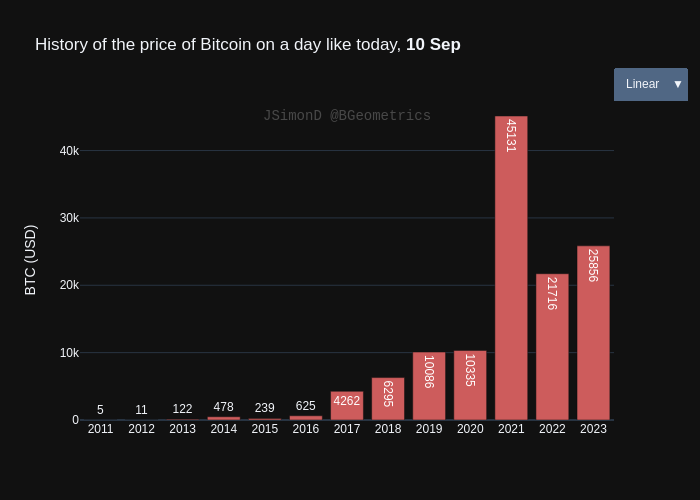
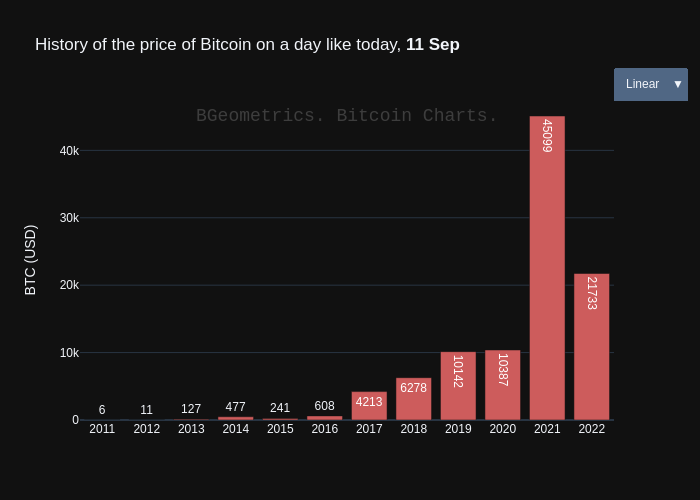
daily

Changed region(s): [[0.12, 0.21, 0.87, 0.87], [0.6, 0.06, 0.66, 0.12]]

diff --git a/reports/bitcoin_price_usd_day_g.html b/reports/bitcoin_price_usd_day_g.html
@@ -1,2 +1,2 @@
 <div>                        <script type="text/javascript">window.PlotlyConfig = {MathJaxConfig: 'local'};</script>
-        <script charset="utf-8" src="https://cdn.plot.ly/plotly-2.24.1.min.js"></script>                <div id="330261bc-e976-4177-add5-2cee92ebdb9d" class="plotly-graph-div" style="height:100%; width:100%;"></div>            <script type="text/javascript">                                    window.PLOTLYENV=window.PLOTLYENV || {};                                    if (document.getElementById("330261bc-e976-4177-add5-2cee92ebdb9d")) {                    Plotly.newPlot(                        "330261bc-e976-4177-add5-2cee92ebdb9d",                        [{"marker":{"color":"indianred"},"name":"BTC day","text":[5.0,11.0,122.0,478.0,239.0,625.0,4262.0,6295.0,10086.0,10335.0,45131.0,21716.0,25856.0],"x":["2011","2012","2013","2014","2015","2016","2017","2018","2019","2020","2021","2022","2023"],"y":[4.7428466552,11.1252888048,122.2155301894,477.7784175921,238.7504772063,624.7526404442,4261.8435210403,6295.3886025716,10085.9519243133,10334.6307302162,45130.85,21715.5972516072,25856.26],"type":"bar"}],                        {"template":{"data":{"barpolar":[{"marker":{"line":{"color":"rgb(17,17,17)","width":0.5},"pattern":{"fillmode":"overlay","size":10,"solidity":0.2}},"type":"barpolar"}],"bar":[{"error_x":{"color":"#f2f5fa"},"error_y":{"color":"#f2f5fa"},"marker":{"line":{"color":"rgb(17,17,17)","width":0.5},"pattern":{"fillmode":"overlay","size":10,"solidity":0.2}},"type":"bar"}],"carpet":[{"aaxis":{"endlinecolor":"#A2B1C6","gridcolor":"#506784","linecolor":"#506784","minorgridcolor":"#506784","startlinecolor":"#A2B1C6"},"baxis":{"endlinecolor":"#A2B1C6","gridcolor":"#506784","linecolor":"#506784","minorgridcolor":"#506784","startlinecolor":"#A2B1C6"},"type":"carpet"}],"choropleth":[{"colorbar":{"outlinewidth":0,"ticks":""},"type":"choropleth"}],"contourcarpet":[{"colorbar":{"outlinewidth":0,"ticks":""},"type":"contourcarpet"}],"contour":[{"colorbar":{"outlinewidth":0,"ticks":""},"colorscale":[[0.0,"#0d0887"],[0.1111111111111111,"#46039f"],[0.2222222222222222,"#7201a8"],[0.3333333333333333,"#9c179e"],[0.4444444444444444,"#bd3786"],[0.5555555555555556,"#d8576b"],[0.6666666666666666,"#ed7953"],[0.7777777777777778,"#fb9f3a"],[0.8888888888888888,"#fdca26"],[1.0,"#f0f921"]],"type":"contour"}],"heatmapgl":[{"colorbar":{"outlinewidth":0,"ticks":""},"colorscale":[[0.0,"#0d0887"],[0.1111111111111111,"#46039f"],[0.2222222222222222,"#7201a8"],[0.3333333333333333,"#9c179e"],[0.4444444444444444,"#bd3786"],[0.5555555555555556,"#d8576b"],[0.6666666666666666,"#ed7953"],[0.7777777777777778,"#fb9f3a"],[0.8888888888888888,"#fdca26"],[1.0,"#f0f921"]],"type":"heatmapgl"}],"heatmap":[{"colorbar":{"outlinewidth":0,"ticks":""},"colorscale":[[0.0,"#0d0887"],[0.1111111111111111,"#46039f"],[0.2222222222222222,"#7201a8"],[0.3333333333333333,"#9c179e"],[0.4444444444444444,"#bd3786"],[0.5555555555555556,"#d8576b"],[0.6666666666666666,"#ed7953"],[0.7777777777777778,"#fb9f3a"],[0.8888888888888888,"#fdca26"],[1.0,"#f0f921"]],"type":"heatmap"}],"histogram2dcontour":[{"colorbar":{"outlinewidth":0,"ticks":""},"colorscale":[[0.0,"#0d0887"],[0.1111111111111111,"#46039f"],[0.2222222222222222,"#7201a8"],[0.3333333333333333,"#9c179e"],[0.4444444444444444,"#bd3786"],[0.5555555555555556,"#d8576b"],[0.6666666666666666,"#ed7953"],[0.7777777777777778,"#fb9f3a"],[0.8888888888888888,"#fdca26"],[1.0,"#f0f921"]],"type":"histogram2dcontour"}],"histogram2d":[{"colorbar":{"outlinewidth":0,"ticks":""},"colorscale":[[0.0,"#0d0887"],[0.1111111111111111,"#46039f"],[0.2222222222222222,"#7201a8"],[0.3333333333333333,"#9c179e"],[0.4444444444444444,"#bd3786"],[0.5555555555555556,"#d8576b"],[0.6666666666666666,"#ed7953"],[0.7777777777777778,"#fb9f3a"],[0.8888888888888888,"#fdca26"],[1.0,"#f0f921"]],"type":"histogram2d"}],"histogram":[{"marker":{"pattern":{"fillmode":"overlay","size":10,"solidity":0.2}},"type":"histogram"}],"mesh3d":[{"colorbar":{"outlinewidth":0,"ticks":""},"type":"mesh3d"}],"parcoords":[{"line":{"colorbar":{"outlinewidth":0,"ticks":""}},"type":"parcoords"}],"pie":[{"automargin":true,"type":"pie"}],"scatter3d":[{"line":{"colorbar":{"outlinewidth":0,"ticks":""}},"marker":{"colorbar":{"outlinewidth":0,"ticks":""}},"type":"scatter3d"}],"scattercarpet":[{"marker":{"colorbar":{"outlinewidth":0,"ticks":""}},"type":"scattercarpet"}],"scattergeo":[{"marker":{"colorbar":{"outlinewidth":0,"ticks":""}},"type":"scattergeo"}],"scattergl":[{"marker":{"line":{"color":"#283442"}},"type":"scattergl"}],"scattermapbox":[{"marker":{"colorbar":{"outlinewidth":0,"ticks":""}},"type":"scattermapbox"}],"scatterpolargl":[{"marker":{"colorbar":{"outlinewidth":0,"ticks":""}},"type":"scatterpolargl"}],"scatterpolar":[{"marker":{"colorbar":{"outlinewidth":0,"ticks":""}},"type":"scatterpolar"}],"scatter":[{"marker":{"line":{"color":"#283442"}},"type":"scatter"}],"scatterternary":[{"marker":{"colorbar":{"outlinewidth":0,"ticks":""}},"type":"scatterternary"}],"surface":[{"colorbar":{"outlinewidth":0,"ticks":""},"colorscale":[[0.0,"#0d0887"],[0.1111111111111111,"#46039f"],[0.2222222222222222,"#7201a8"],[0.3333333333333333,"#9c179e"],[0.4444444444444444,"#bd3786"],[0.5555555555555556,"#d8576b"],[0.6666666666666666,"#ed7953"],[0.7777777777777778,"#fb9f3a"],[0.8888888888888888,"#fdca26"],[1.0,"#f0f921"]],"type":"surface"}],"table":[{"cells":{"fill":{"color":"#506784"},"line":{"color":"rgb(17,17,17)"}},"header":{"fill":{"color":"#2a3f5f"},"line":{"color":"rgb(17,17,17)"}},"type":"table"}]},"layout":{"annotationdefaults":{"arrowcolor":"#f2f5fa","arrowhead":0,"arrowwidth":1},"autotypenumbers":"strict","coloraxis":{"colorbar":{"outlinewidth":0,"ticks":""}},"colorscale":{"diverging":[[0,"#8e0152"],[0.1,"#c51b7d"],[0.2,"#de77ae"],[0.3,"#f1b6da"],[0.4,"#fde0ef"],[0.5,"#f7f7f7"],[0.6,"#e6f5d0"],[0.7,"#b8e186"],[0.8,"#7fbc41"],[0.9,"#4d9221"],[1,"#276419"]],"sequential":[[0.0,"#0d0887"],[0.1111111111111111,"#46039f"],[0.2222222222222222,"#7201a8"],[0.3333333333333333,"#9c179e"],[0.4444444444444444,"#bd3786"],[0.5555555555555556,"#d8576b"],[0.6666666666666666,"#ed7953"],[0.7777777777777778,"#fb9f3a"],[0.8888888888888888,"#fdca26"],[1.0,"#f0f921"]],"sequentialminus":[[0.0,"#0d0887"],[0.1111111111111111,"#46039f"],[0.2222222222222222,"#7201a8"],[0.3333333333333333,"#9c179e"],[0.4444444444444444,"#bd3786"],[0.5555555555555556,"#d8576b"],[0.6666666666666666,"#ed7953"],[0.7777777777777778,"#fb9f3a"],[0.8888888888888888,"#fdca26"],[1.0,"#f0f921"]]},"colorway":["#636efa","#EF553B","#00cc96","#ab63fa","#FFA15A","#19d3f3","#FF6692","#B6E880","#FF97FF","#FECB52"],"font":{"color":"#f2f5fa"},"geo":{"bgcolor":"rgb(17,17,17)","lakecolor":"rgb(17,17,17)","landcolor":"rgb(17,17,17)","showlakes":true,"showland":true,"subunitcolor":"#506784"},"hoverlabel":{"align":"left"},"hovermode":"closest","mapbox":{"style":"dark"},"paper_bgcolor":"rgb(17,17,17)","plot_bgcolor":"rgb(17,17,17)","polar":{"angularaxis":{"gridcolor":"#506784","linecolor":"#506784","ticks":""},"bgcolor":"rgb(17,17,17)","radialaxis":{"gridcolor":"#506784","linecolor":"#506784","ticks":""}},"scene":{"xaxis":{"backgroundcolor":"rgb(17,17,17)","gridcolor":"#506784","gridwidth":2,"linecolor":"#506784","showbackground":true,"ticks":"","zerolinecolor":"#C8D4E3"},"yaxis":{"backgroundcolor":"rgb(17,17,17)","gridcolor":"#506784","gridwidth":2,"linecolor":"#506784","showbackground":true,"ticks":"","zerolinecolor":"#C8D4E3"},"zaxis":{"backgroundcolor":"rgb(17,17,17)","gridcolor":"#506784","gridwidth":2,"linecolor":"#506784","showbackground":true,"ticks":"","zerolinecolor":"#C8D4E3"}},"shapedefaults":{"line":{"color":"#f2f5fa"}},"sliderdefaults":{"bgcolor":"#C8D4E3","bordercolor":"rgb(17,17,17)","borderwidth":1,"tickwidth":0},"ternary":{"aaxis":{"gridcolor":"#506784","linecolor":"#506784","ticks":""},"baxis":{"gridcolor":"#506784","linecolor":"#506784","ticks":""},"bgcolor":"rgb(17,17,17)","caxis":{"gridcolor":"#506784","linecolor":"#506784","ticks":""}},"title":{"x":0.05},"updatemenudefaults":{"bgcolor":"#506784","borderwidth":0},"xaxis":{"automargin":true,"gridcolor":"#283442","linecolor":"#506784","ticks":"","title":{"standoff":15},"zerolinecolor":"#283442","zerolinewidth":2},"yaxis":{"automargin":true,"gridcolor":"#283442","linecolor":"#506784","ticks":"","title":{"standoff":15},"zerolinecolor":"#283442","zerolinewidth":2}}},"annotations":[{"font":{"color":"grey","family":"Courier New, monospace","size":14},"opacity":0.5,"showarrow":false,"text":"\u003ca href='https:\u002f\u002fbgeometrics.com'\u003eJSimonD @BGeometrics\u003c\u002fa\u003e","x":0.5,"xanchor":"center","xref":"paper","y":0.95,"yanchor":"middle","yref":"paper"}],"title":{"text":"History of the price of Bitcoin on a day like today, \u003cb\u003e10 Sep\u003c\u002fb\u003e"},"yaxis":{"title":{"text":"BTC (USD)"}},"showlegend":false,"updatemenus":[{"buttons":[{"args":[{"yaxis.type":"linear"}],"label":"Linear","method":"relayout"},{"args":[{"yaxis.type":"log"}],"label":"Log","method":"relayout"}],"x":1,"xanchor":"left","y":1.1,"yanchor":"top"}]},                        {"responsive": true}                    )                };                            </script>        </div>
+        <script charset="utf-8" src="https://cdn.plot.ly/plotly-2.24.1.min.js"></script>                <div id="e0ff1373-d44e-4629-b83f-1cf379615ed9" class="plotly-graph-div" style="height:100%; width:100%;"></div>            <script type="text/javascript">                                    window.PLOTLYENV=window.PLOTLYENV || {};                                    if (document.getElementById("e0ff1373-d44e-4629-b83f-1cf379615ed9")) {                    Plotly.newPlot(                        "e0ff1373-d44e-4629-b83f-1cf379615ed9",                        [{"marker":{"color":"indianred"},"name":"BTC day","text":[6.0,11.0,127.0,477.0,241.0,608.0,4213.0,6278.0,10142.0,10387.0,45099.0,21733.0],"x":["2011","2012","2013","2014","2015","2016","2017","2018","2019","2020","2021","2022"],"y":[5.8529039725,11.2680929553,127.0882270602,477.2706820573,240.8450081169,608.2466759205,4212.5475733489,6278.4246396844,10142.1480603741,10387.0207419638,45098.5916447691,21732.8643576856],"type":"bar"}],                        {"template":{"data":{"barpolar":[{"marker":{"line":{"color":"rgb(17,17,17)","width":0.5},"pattern":{"fillmode":"overlay","size":10,"solidity":0.2}},"type":"barpolar"}],"bar":[{"error_x":{"color":"#f2f5fa"},"error_y":{"color":"#f2f5fa"},"marker":{"line":{"color":"rgb(17,17,17)","width":0.5},"pattern":{"fillmode":"overlay","size":10,"solidity":0.2}},"type":"bar"}],"carpet":[{"aaxis":{"endlinecolor":"#A2B1C6","gridcolor":"#506784","linecolor":"#506784","minorgridcolor":"#506784","startlinecolor":"#A2B1C6"},"baxis":{"endlinecolor":"#A2B1C6","gridcolor":"#506784","linecolor":"#506784","minorgridcolor":"#506784","startlinecolor":"#A2B1C6"},"type":"carpet"}],"choropleth":[{"colorbar":{"outlinewidth":0,"ticks":""},"type":"choropleth"}],"contourcarpet":[{"colorbar":{"outlinewidth":0,"ticks":""},"type":"contourcarpet"}],"contour":[{"colorbar":{"outlinewidth":0,"ticks":""},"colorscale":[[0.0,"#0d0887"],[0.1111111111111111,"#46039f"],[0.2222222222222222,"#7201a8"],[0.3333333333333333,"#9c179e"],[0.4444444444444444,"#bd3786"],[0.5555555555555556,"#d8576b"],[0.6666666666666666,"#ed7953"],[0.7777777777777778,"#fb9f3a"],[0.8888888888888888,"#fdca26"],[1.0,"#f0f921"]],"type":"contour"}],"heatmapgl":[{"colorbar":{"outlinewidth":0,"ticks":""},"colorscale":[[0.0,"#0d0887"],[0.1111111111111111,"#46039f"],[0.2222222222222222,"#7201a8"],[0.3333333333333333,"#9c179e"],[0.4444444444444444,"#bd3786"],[0.5555555555555556,"#d8576b"],[0.6666666666666666,"#ed7953"],[0.7777777777777778,"#fb9f3a"],[0.8888888888888888,"#fdca26"],[1.0,"#f0f921"]],"type":"heatmapgl"}],"heatmap":[{"colorbar":{"outlinewidth":0,"ticks":""},"colorscale":[[0.0,"#0d0887"],[0.1111111111111111,"#46039f"],[0.2222222222222222,"#7201a8"],[0.3333333333333333,"#9c179e"],[0.4444444444444444,"#bd3786"],[0.5555555555555556,"#d8576b"],[0.6666666666666666,"#ed7953"],[0.7777777777777778,"#fb9f3a"],[0.8888888888888888,"#fdca26"],[1.0,"#f0f921"]],"type":"heatmap"}],"histogram2dcontour":[{"colorbar":{"outlinewidth":0,"ticks":""},"colorscale":[[0.0,"#0d0887"],[0.1111111111111111,"#46039f"],[0.2222222222222222,"#7201a8"],[0.3333333333333333,"#9c179e"],[0.4444444444444444,"#bd3786"],[0.5555555555555556,"#d8576b"],[0.6666666666666666,"#ed7953"],[0.7777777777777778,"#fb9f3a"],[0.8888888888888888,"#fdca26"],[1.0,"#f0f921"]],"type":"histogram2dcontour"}],"histogram2d":[{"colorbar":{"outlinewidth":0,"ticks":""},"colorscale":[[0.0,"#0d0887"],[0.1111111111111111,"#46039f"],[0.2222222222222222,"#7201a8"],[0.3333333333333333,"#9c179e"],[0.4444444444444444,"#bd3786"],[0.5555555555555556,"#d8576b"],[0.6666666666666666,"#ed7953"],[0.7777777777777778,"#fb9f3a"],[0.8888888888888888,"#fdca26"],[1.0,"#f0f921"]],"type":"histogram2d"}],"histogram":[{"marker":{"pattern":{"fillmode":"overlay","size":10,"solidity":0.2}},"type":"histogram"}],"mesh3d":[{"colorbar":{"outlinewidth":0,"ticks":""},"type":"mesh3d"}],"parcoords":[{"line":{"colorbar":{"outlinewidth":0,"ticks":""}},"type":"parcoords"}],"pie":[{"automargin":true,"type":"pie"}],"scatter3d":[{"line":{"colorbar":{"outlinewidth":0,"ticks":""}},"marker":{"colorbar":{"outlinewidth":0,"ticks":""}},"type":"scatter3d"}],"scattercarpet":[{"marker":{"colorbar":{"outlinewidth":0,"ticks":""}},"type":"scattercarpet"}],"scattergeo":[{"marker":{"colorbar":{"outlinewidth":0,"ticks":""}},"type":"scattergeo"}],"scattergl":[{"marker":{"line":{"color":"#283442"}},"type":"scattergl"}],"scattermapbox":[{"marker":{"colorbar":{"outlinewidth":0,"ticks":""}},"type":"scattermapbox"}],"scatterpolargl":[{"marker":{"colorbar":{"outlinewidth":0,"ticks":""}},"type":"scatterpolargl"}],"scatterpolar":[{"marker":{"colorbar":{"outlinewidth":0,"ticks":""}},"type":"scatterpolar"}],"scatter":[{"marker":{"line":{"color":"#283442"}},"type":"scatter"}],"scatterternary":[{"marker":{"colorbar":{"outlinewidth":0,"ticks":""}},"type":"scatterternary"}],"surface":[{"colorbar":{"outlinewidth":0,"ticks":""},"colorscale":[[0.0,"#0d0887"],[0.1111111111111111,"#46039f"],[0.2222222222222222,"#7201a8"],[0.3333333333333333,"#9c179e"],[0.4444444444444444,"#bd3786"],[0.5555555555555556,"#d8576b"],[0.6666666666666666,"#ed7953"],[0.7777777777777778,"#fb9f3a"],[0.8888888888888888,"#fdca26"],[1.0,"#f0f921"]],"type":"surface"}],"table":[{"cells":{"fill":{"color":"#506784"},"line":{"color":"rgb(17,17,17)"}},"header":{"fill":{"color":"#2a3f5f"},"line":{"color":"rgb(17,17,17)"}},"type":"table"}]},"layout":{"annotationdefaults":{"arrowcolor":"#f2f5fa","arrowhead":0,"arrowwidth":1},"autotypenumbers":"strict","coloraxis":{"colorbar":{"outlinewidth":0,"ticks":""}},"colorscale":{"diverging":[[0,"#8e0152"],[0.1,"#c51b7d"],[0.2,"#de77ae"],[0.3,"#f1b6da"],[0.4,"#fde0ef"],[0.5,"#f7f7f7"],[0.6,"#e6f5d0"],[0.7,"#b8e186"],[0.8,"#7fbc41"],[0.9,"#4d9221"],[1,"#276419"]],"sequential":[[0.0,"#0d0887"],[0.1111111111111111,"#46039f"],[0.2222222222222222,"#7201a8"],[0.3333333333333333,"#9c179e"],[0.4444444444444444,"#bd3786"],[0.5555555555555556,"#d8576b"],[0.6666666666666666,"#ed7953"],[0.7777777777777778,"#fb9f3a"],[0.8888888888888888,"#fdca26"],[1.0,"#f0f921"]],"sequentialminus":[[0.0,"#0d0887"],[0.1111111111111111,"#46039f"],[0.2222222222222222,"#7201a8"],[0.3333333333333333,"#9c179e"],[0.4444444444444444,"#bd3786"],[0.5555555555555556,"#d8576b"],[0.6666666666666666,"#ed7953"],[0.7777777777777778,"#fb9f3a"],[0.8888888888888888,"#fdca26"],[1.0,"#f0f921"]]},"colorway":["#636efa","#EF553B","#00cc96","#ab63fa","#FFA15A","#19d3f3","#FF6692","#B6E880","#FF97FF","#FECB52"],"font":{"color":"#f2f5fa"},"geo":{"bgcolor":"rgb(17,17,17)","lakecolor":"rgb(17,17,17)","landcolor":"rgb(17,17,17)","showlakes":true,"showland":true,"subunitcolor":"#506784"},"hoverlabel":{"align":"left"},"hovermode":"closest","mapbox":{"style":"dark"},"paper_bgcolor":"rgb(17,17,17)","plot_bgcolor":"rgb(17,17,17)","polar":{"angularaxis":{"gridcolor":"#506784","linecolor":"#506784","ticks":""},"bgcolor":"rgb(17,17,17)","radialaxis":{"gridcolor":"#506784","linecolor":"#506784","ticks":""}},"scene":{"xaxis":{"backgroundcolor":"rgb(17,17,17)","gridcolor":"#506784","gridwidth":2,"linecolor":"#506784","showbackground":true,"ticks":"","zerolinecolor":"#C8D4E3"},"yaxis":{"backgroundcolor":"rgb(17,17,17)","gridcolor":"#506784","gridwidth":2,"linecolor":"#506784","showbackground":true,"ticks":"","zerolinecolor":"#C8D4E3"},"zaxis":{"backgroundcolor":"rgb(17,17,17)","gridcolor":"#506784","gridwidth":2,"linecolor":"#506784","showbackground":true,"ticks":"","zerolinecolor":"#C8D4E3"}},"shapedefaults":{"line":{"color":"#f2f5fa"}},"sliderdefaults":{"bgcolor":"#C8D4E3","bordercolor":"rgb(17,17,17)","borderwidth":1,"tickwidth":0},"ternary":{"aaxis":{"gridcolor":"#506784","linecolor":"#506784","ticks":""},"baxis":{"gridcolor":"#506784","linecolor":"#506784","ticks":""},"bgcolor":"rgb(17,17,17)","caxis":{"gridcolor":"#506784","linecolor":"#506784","ticks":""}},"title":{"x":0.05},"updatemenudefaults":{"bgcolor":"#506784","borderwidth":0},"xaxis":{"automargin":true,"gridcolor":"#283442","linecolor":"#506784","ticks":"","title":{"standoff":15},"zerolinecolor":"#283442","zerolinewidth":2},"yaxis":{"automargin":true,"gridcolor":"#283442","linecolor":"#506784","ticks":"","title":{"standoff":15},"zerolinecolor":"#283442","zerolinewidth":2}}},"annotations":[{"font":{"color":"grey","family":"Courier New, monospace","size":18},"opacity":0.4,"showarrow":false,"text":"\u003ca href='https:\u002f\u002fbgeometrics.com'\u003eBGeometrics. \u003c\u002fa\u003e\u003ca href='https:\u002f\u002fcharts.bgeometrics.com'\u003eBitcoin Charts.\u003c\u002fa\u003e","x":0.5,"xanchor":"center","xref":"paper","y":0.95,"yanchor":"middle","yref":"paper"}],"title":{"text":"History of the price of Bitcoin on a day like today, \u003cb\u003e11 Sep\u003c\u002fb\u003e"},"yaxis":{"title":{"text":"BTC (USD)"}},"showlegend":false,"updatemenus":[{"buttons":[{"args":[{"yaxis.type":"linear"}],"label":"Linear","method":"relayout"},{"args":[{"yaxis.type":"log"}],"label":"Log","method":"relayout"}],"x":1,"xanchor":"left","y":1.1,"yanchor":"top"}]},                        {"responsive": true}                    )                };                            </script>        </div>
